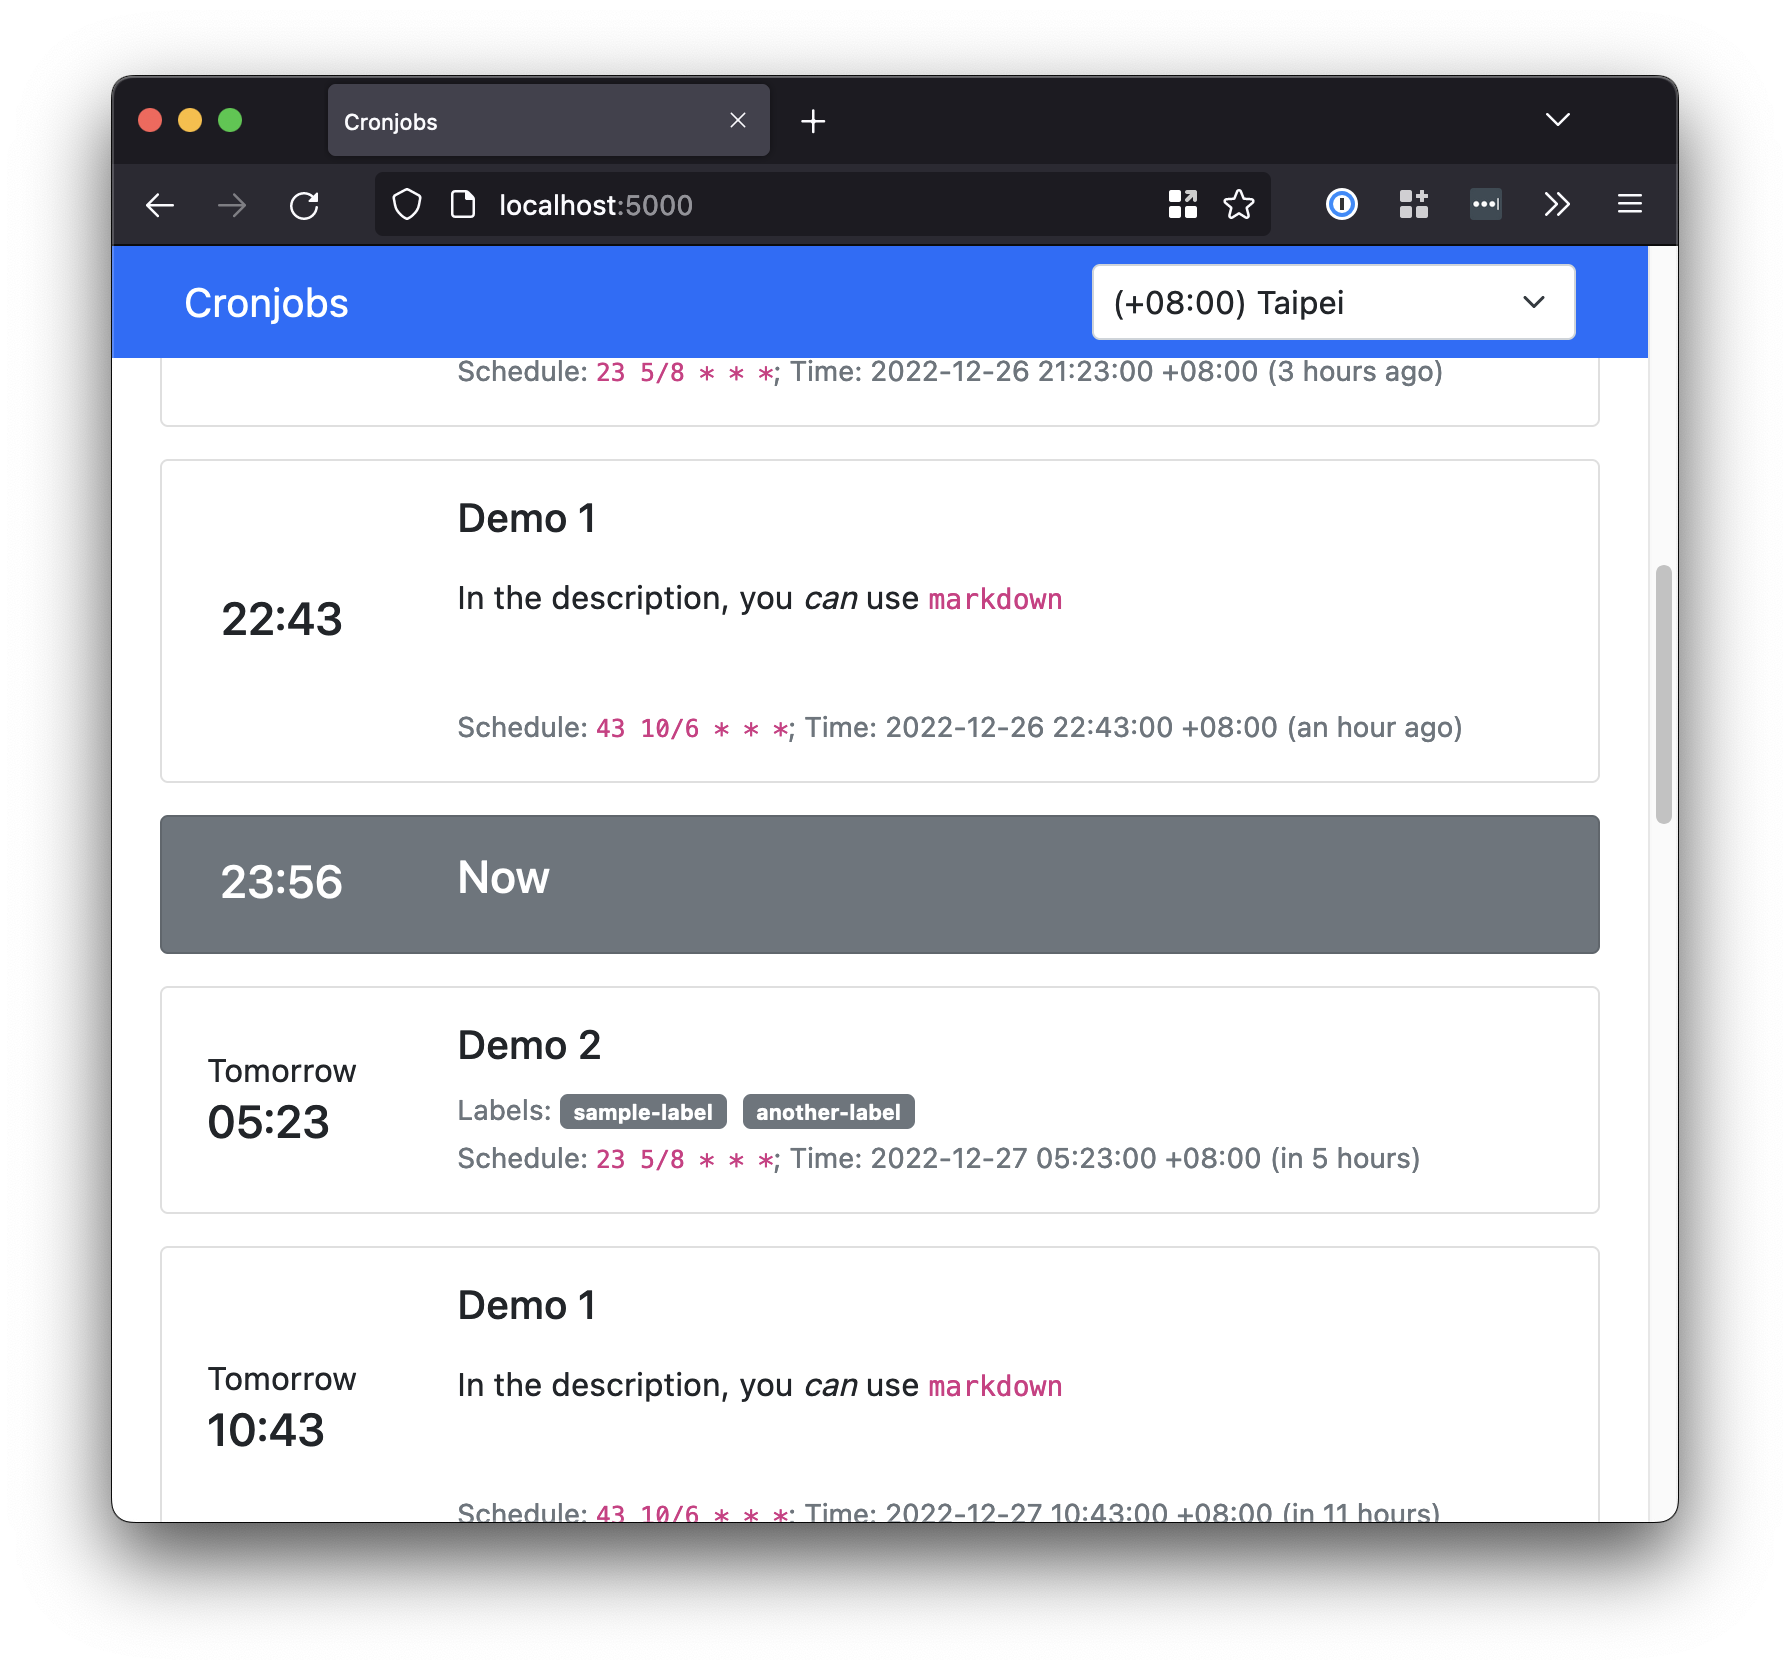
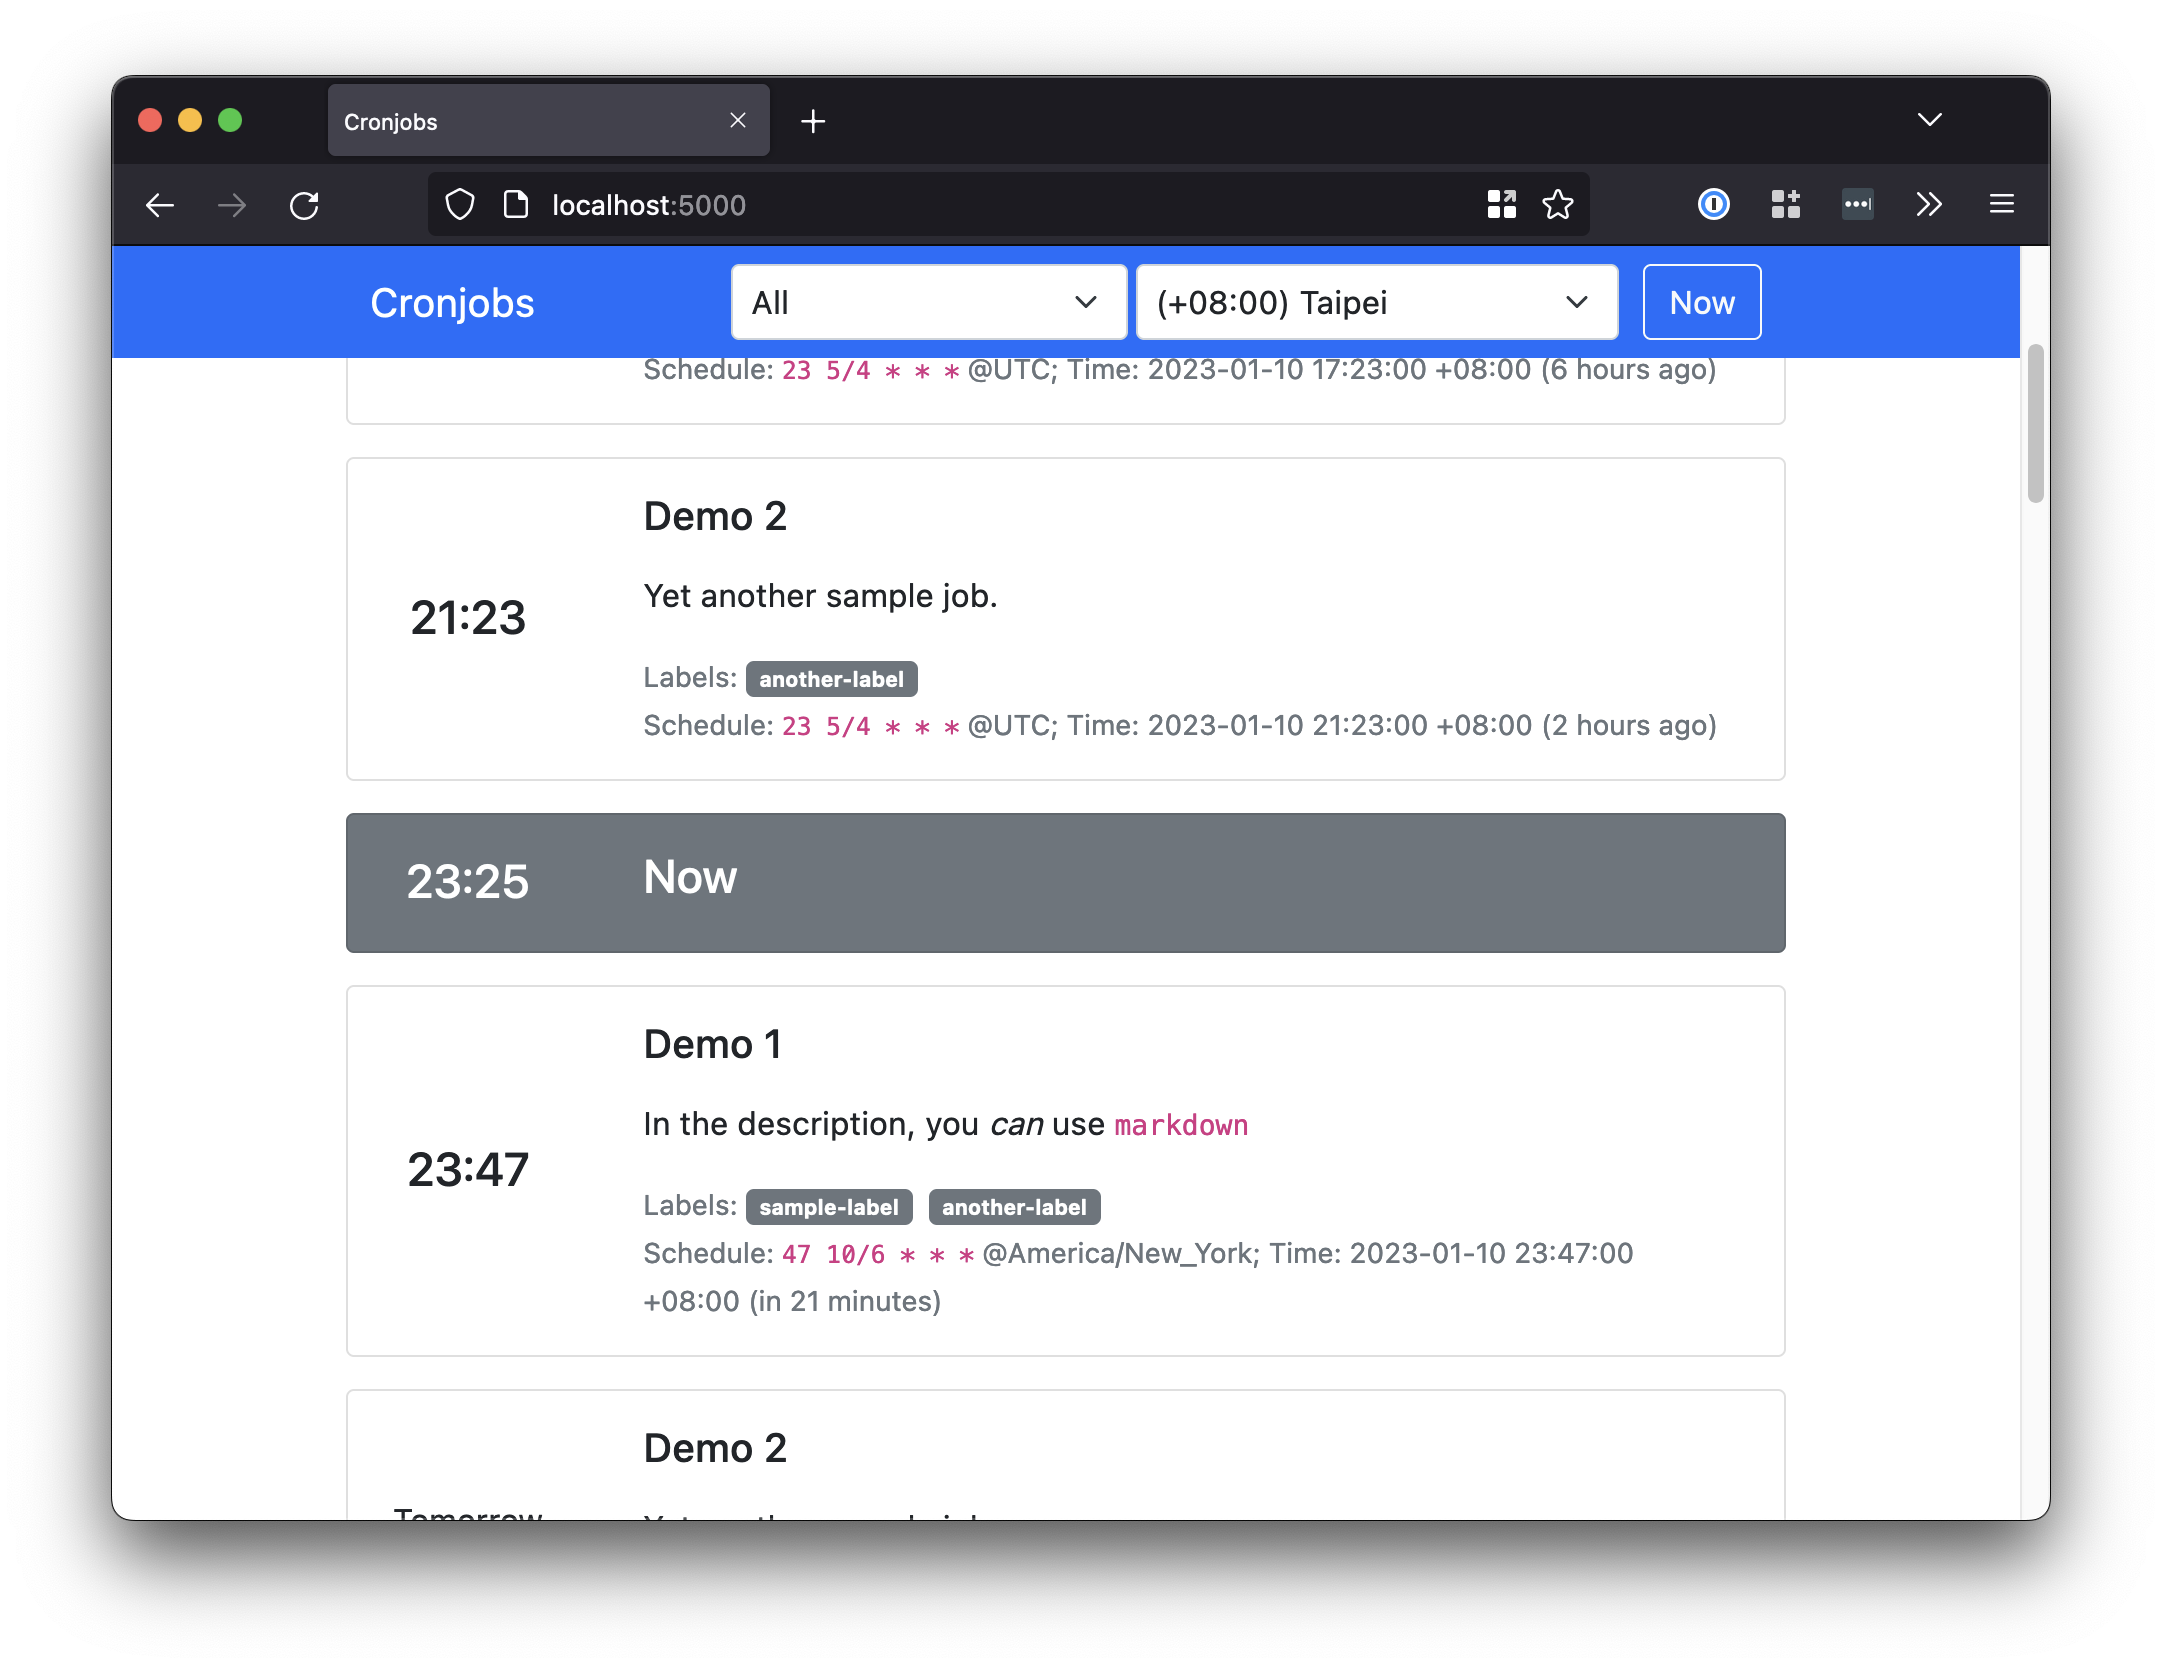
feature: filter jobs

diff --git a/cron_times/static/crontimes.js b/cron_times/static/crontimes.js
@@ -112,10 +112,32 @@ const crontimes = (function () {
         card.querySelector('.relative-time').innerHTML = dateTime.from();
     }
 
+    /**
+     * Only show jobs that matches selected properties.
+     * @param {string} target
+     */
+    function filterJobs(target) {
+        for (let cardDom of timetable.querySelectorAll('.card')) {
+            let row = cardDom.closest('.row');
+            if (row.id === 'card-now') {
+                continue;
+            }
+
+            if (!target) {
+                row.classList.remove('hide');
+            } else if (row.classList.contains(target)) {
+                row.classList.remove('hide');
+            } else {
+                row.classList.add('hide');
+            }
+        }
+    }
+
     return {
-        scrollToNow: scrollToNow,
+        filterJobs: filterJobs,
         getTimezone: getTimezone,
-        setTimeZone: setTimeZone,
         refreshTimes: refreshTimes,
+        scrollToNow: scrollToNow,
+        setTimeZone: setTimeZone,
     }
 })();

diff --git a/cron_times/__init__.py b/cron_times/__init__.py
@@ -2,6 +2,7 @@ import datetime
 import functools
 import logging
 import os
+import uuid
 import zoneinfo
 
 import croniter
@@ -16,18 +17,24 @@ app = flask.Flask(__name__)
 app.jinja_env.add_extension("pypugjs.ext.jinja.PyPugJSExtension")
 
 __tasks = None
+__indexes = None
 
 logger = logging.getLogger(__name__)
 
 
 @app.route("/")
 def timetable():
+    # decide time range
     now = datetime.datetime.now()
     query_time_start = now - datetime.timedelta(days=1)
     query_time_end = now + datetime.timedelta(days=2)
 
+    # get tasks
+    tasks, indexes = get_tasks()
+
+    # get jobs in the selected time range
     unsorted_jobs = []
-    for task in get_tasks():
+    for task in tasks:
         timezone = zoneinfo.ZoneInfo(task["timezone"])
         for dt in croniter.croniter_range(
             query_time_start, query_time_end, task["schedule"]
@@ -36,12 +43,14 @@ def timetable():
             job["datetime"] = dt.replace(tzinfo=timezone)
             unsorted_jobs.append(job)
 
+    # sort
     jobs = sorted(unsorted_jobs, key=lambda d: d["datetime"])
 
     return flask.render_template(
         "timetable.pug",
         title=os.getenv("TIMETABLE_TITLE", "Cronjobs"),
         timezones=get_timezones(),
+        indexes=indexes,
         jobs=jobs,
     )
 
@@ -101,12 +110,48 @@ def render_markdown(s: str) -> str | None:
 
 
 def get_tasks():
-    global __tasks
+    global __tasks, __indexes
     if __tasks:
-        return __tasks
+        return __tasks, __indexes
 
+    # get tasks
     tasks = cron_times.tasks.load_tasks(TASK_DIR)
+
+    # indexing
+    def gen_index():
+        return f"index-{uuid.uuid4()}"
+
+    indexes: dict[tuple[int, str], str] = {
+        # key fmt in (int, str)
+        #               \    \-- name
+        #                \------ sort key
+    }
+    for task in tasks:
+        # per task index
+        task_name: str = task["name"]
+        task_index = gen_index()
+        indexes[0, task_name.casefold()] = "Task", task_name, task_index
+
+        # storage
+        task["indexes"] = {task_index}
+
+        # per label index
+        for label in task["labels"]:
+            label_key = 1, label.casefold()
+            if label_key in indexes:
+                _, _, label_index = indexes[label_key]
+            else:
+                label_index = gen_index()
+                indexes[label_key] = "Label", label, label_index
+            task["indexes"].add(label_index)
+
+    sorted_indexes = {}
+    for key in sorted(indexes.keys()):
+        category, name, index = indexes[key]
+        sorted_indexes[f"{category}: {name}"] = index
 
     if not app.debug:  # always reload in debug
         __tasks = tasks
-    return tasks
+        __indexes = sorted_indexes
+
+    return tasks, sorted_indexes

diff --git a/README.md b/README.md
@@ -4,6 +4,12 @@ Show schdueled jobs in a more readable way.
 
 ![screenshot](./screenshot.png)
 
+*features*
+
+* Easy configure - Setup job list in YAML format
+* Timezone supported - Able to configure server timezone and show the time in local time
+* Quick filtering - Allow customized label and quick lookup
+
 
 ## Usage
 
